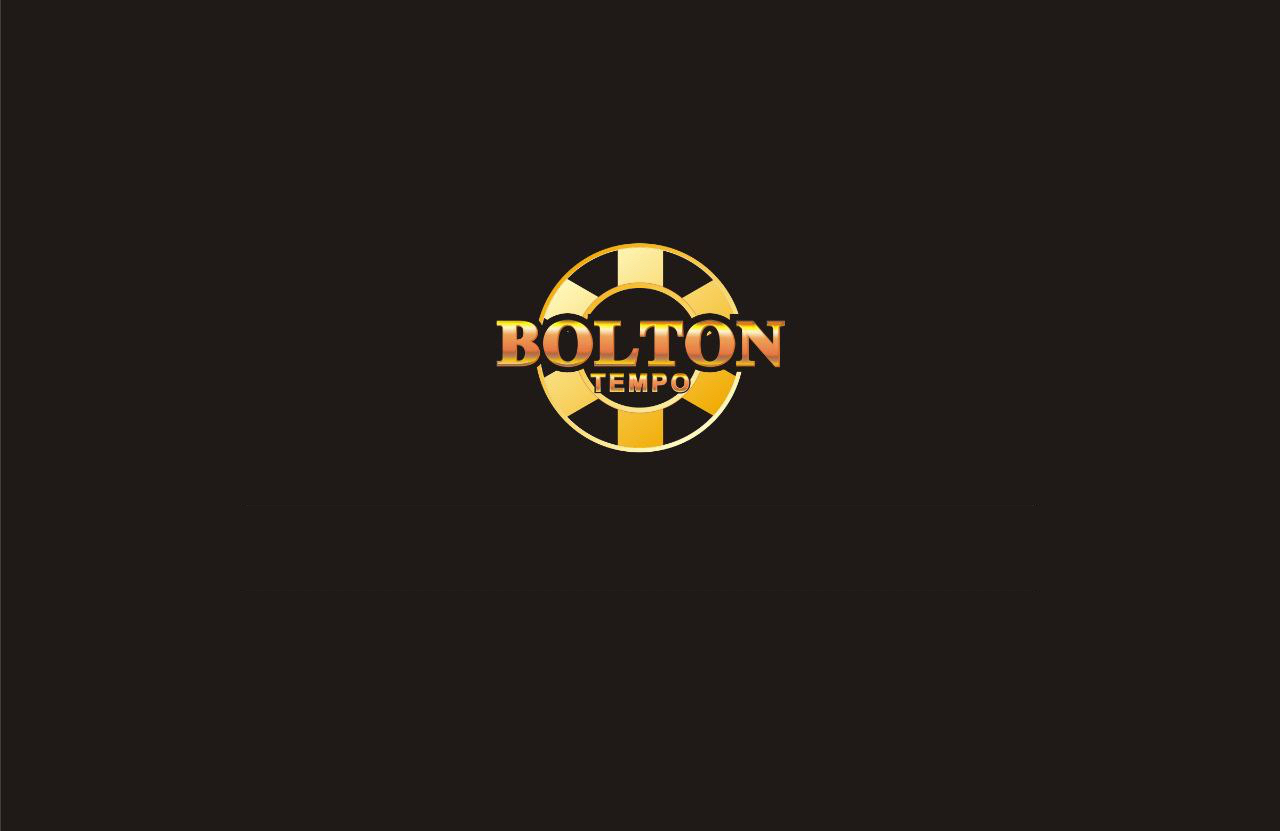
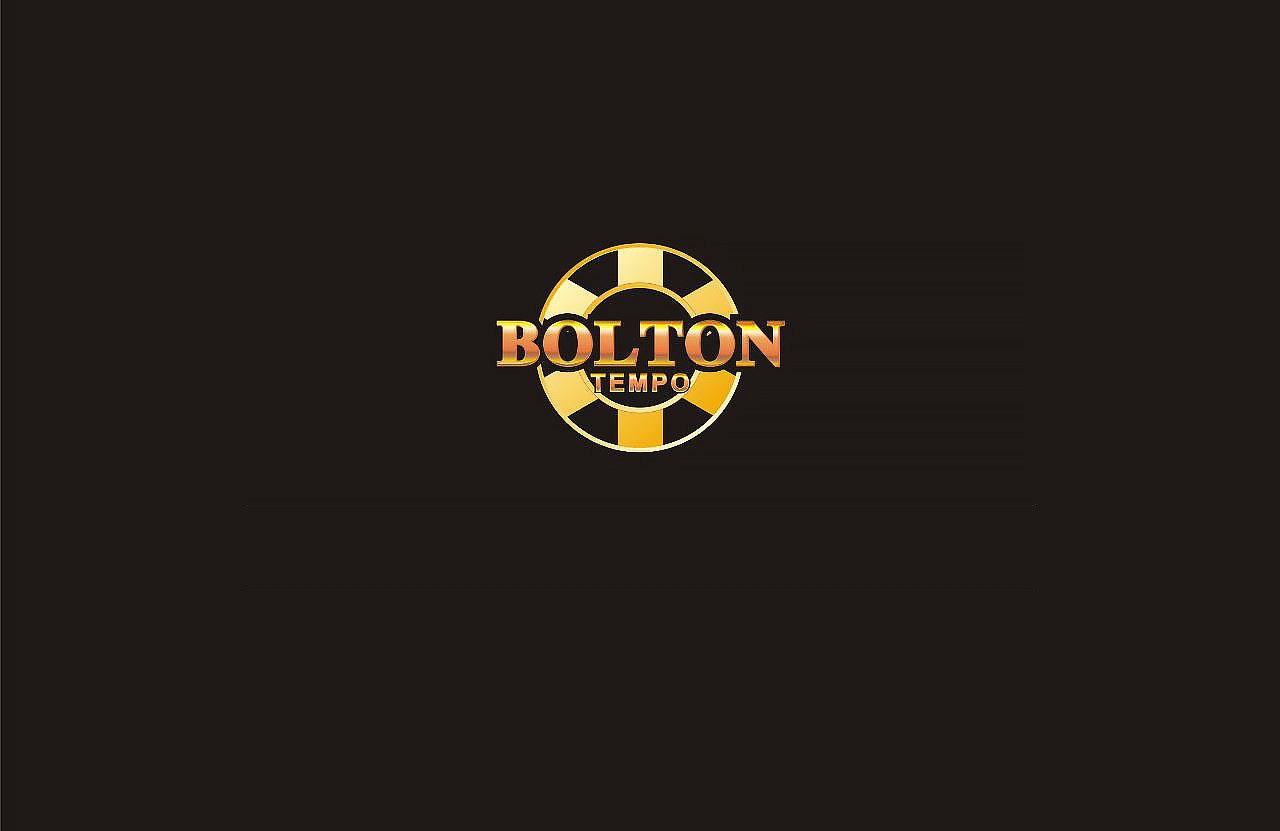
20230531

Changed region(s): [[0.375, 0.3008, 0.625, 0.5415], [0.4375, 0.3008, 0.4688, 0.3309]]

diff --git a/app/Views/home/login.php b/app/Views/home/login.php
@@ -56,7 +56,7 @@
             }
         <?php elseif($_ENV['app.name'] == APP_BOLTON) :?>
             #wrap.users_wrap {
-                background:url(/images/login/login_bg_<?=strtolower($_ENV['app.logo'])?>.png?v=1) no-repeat center center;
+                background:url(/images/login/login_bg_<?=strtolower($_ENV['app.logo'])?>.png?v=2) no-repeat center center;
                 background-size: cover;
                 padding-bottom: 0;
                 overflow: hidden;
